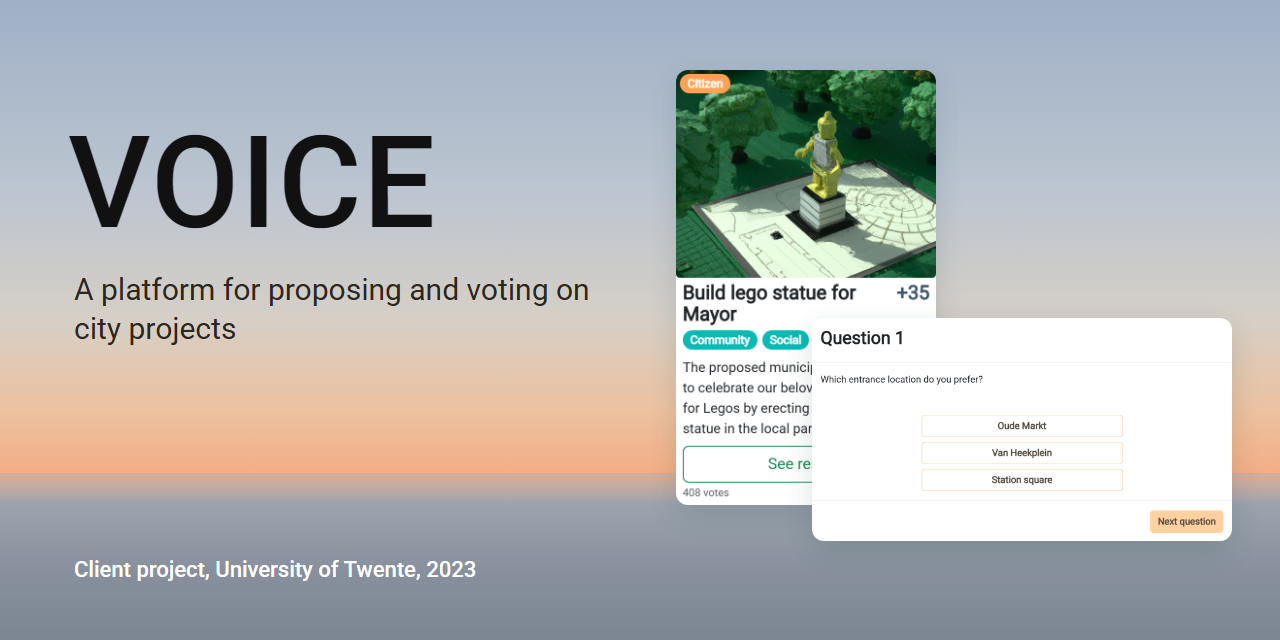
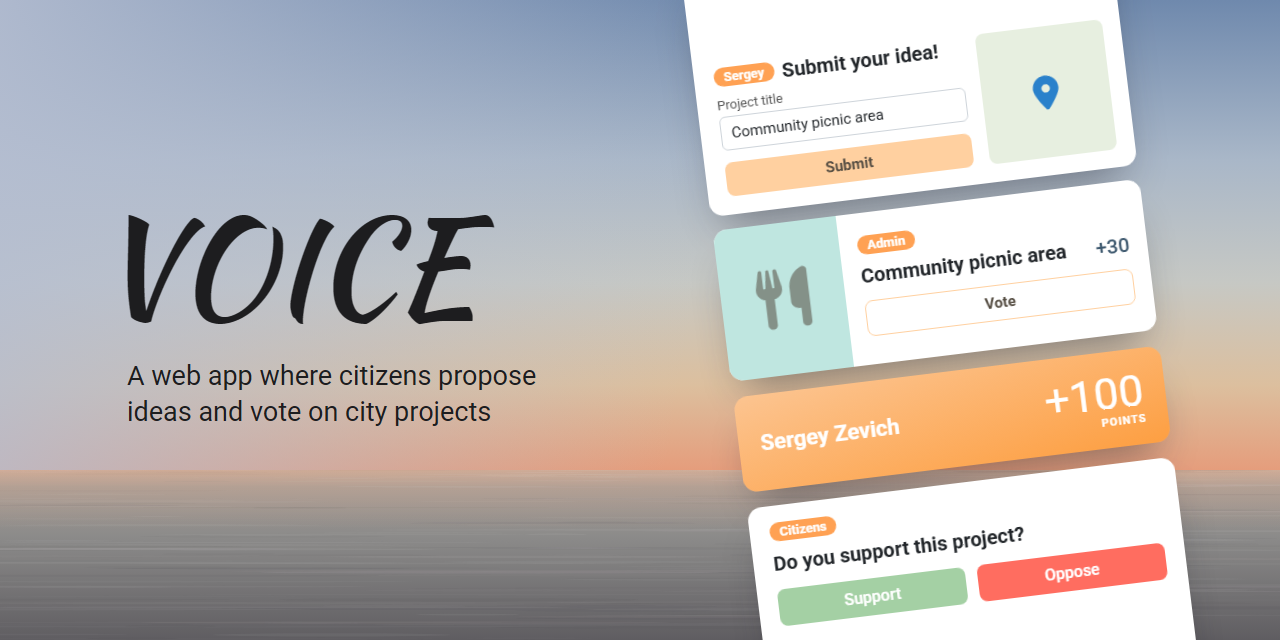
docs: update readme images

diff --git a/README.md b/README.md
@@ -1,4 +1,4 @@
-![A project card and a voting question from Voice over a sky fading into a sunset sea](assets/banner.png)
+![VOICE in script over a dusk sky and sea, next to a tilted stack of four cards: an idea form, a project card with +30, a card with +100 points and a Support or Oppose vote](assets/banner.png)
 
 # Voice
 
@@ -11,7 +11,7 @@ Client project, team of 6, University of Twente • Data & Information module (4
 
 ## Results / Demo
 
-![Voice's pages one after another: the main page and its projects, a vote and its questions, an idea being submitted and reviewed, the leaderboard, news, login and sign-up](assets/pages.gif)
+![A citizen opens the underground aquarium project from the main page, scrolls down to its map, picks an answer to each of its two questions and gets a confirmation that the response was submitted](assets/voting.gif)
 
 We built Voice in four sprints, and at the hand-in it ran on a hosted server. We presented it to the client on 06/07/2023.
 
@@ -27,7 +27,7 @@ An admin edits the idea where needed and publishes it as a project with a voting
 
 A citizen opens a project from the main page, sees its photos and map and answers its questions one at a time. The server turns away a second vote on the same project and stores one row per answer. Finished projects show their results on the main page.
 
-![Four cards joined by arrows, two under a Frontend tab and two under a Backend tab](assets/s2-vote-flow.png)
+![Three screenshots: a citizen's idea form with its address pinned on a map, the admin's form with the deadline, categories and 30 points filled in, and the main page where the idea now shows as a project card](assets/idea-to-project.png)
 
 The leaderboard shows the 10 citizens with the most points, and the shop lists benefits with their price in points. Anyone can switch to anonymous on their account page, and `LeaderboardDao.java` then shows them as "Anonymous".
 
@@ -37,7 +37,7 @@ Built with: Java 17, Jakarta Servlet 6.0.0, Jersey 3.1.1, Jackson 2.15.0, bcrypt
 
 I made 136 of our 695 commits. I built the main page with the project cards and the voting windows, and the submit-idea and review-idea pages with their input checks and map. I also built the admin's form for a project's questions, the leaderboard, the account page, the login and sign-up pages and the news pages. I made the navigation bar and the shared stylesheet with Voice's colors, and on the last day I made the pages work on a phone.
 
-![Four phone screenshots side by side](assets/s3-phone.png)
+![A tilted wall of 15 Voice pages, with the main page, the idea form and the shop in the middle and the admin and account pages around them](assets/pages.png)
 
 In the rest of the team, one set up the project and built most of the backend, and one wrote the data layer and its tests. Two connected the pages to the API, and one built the admin pages for the shop and the users.
 
